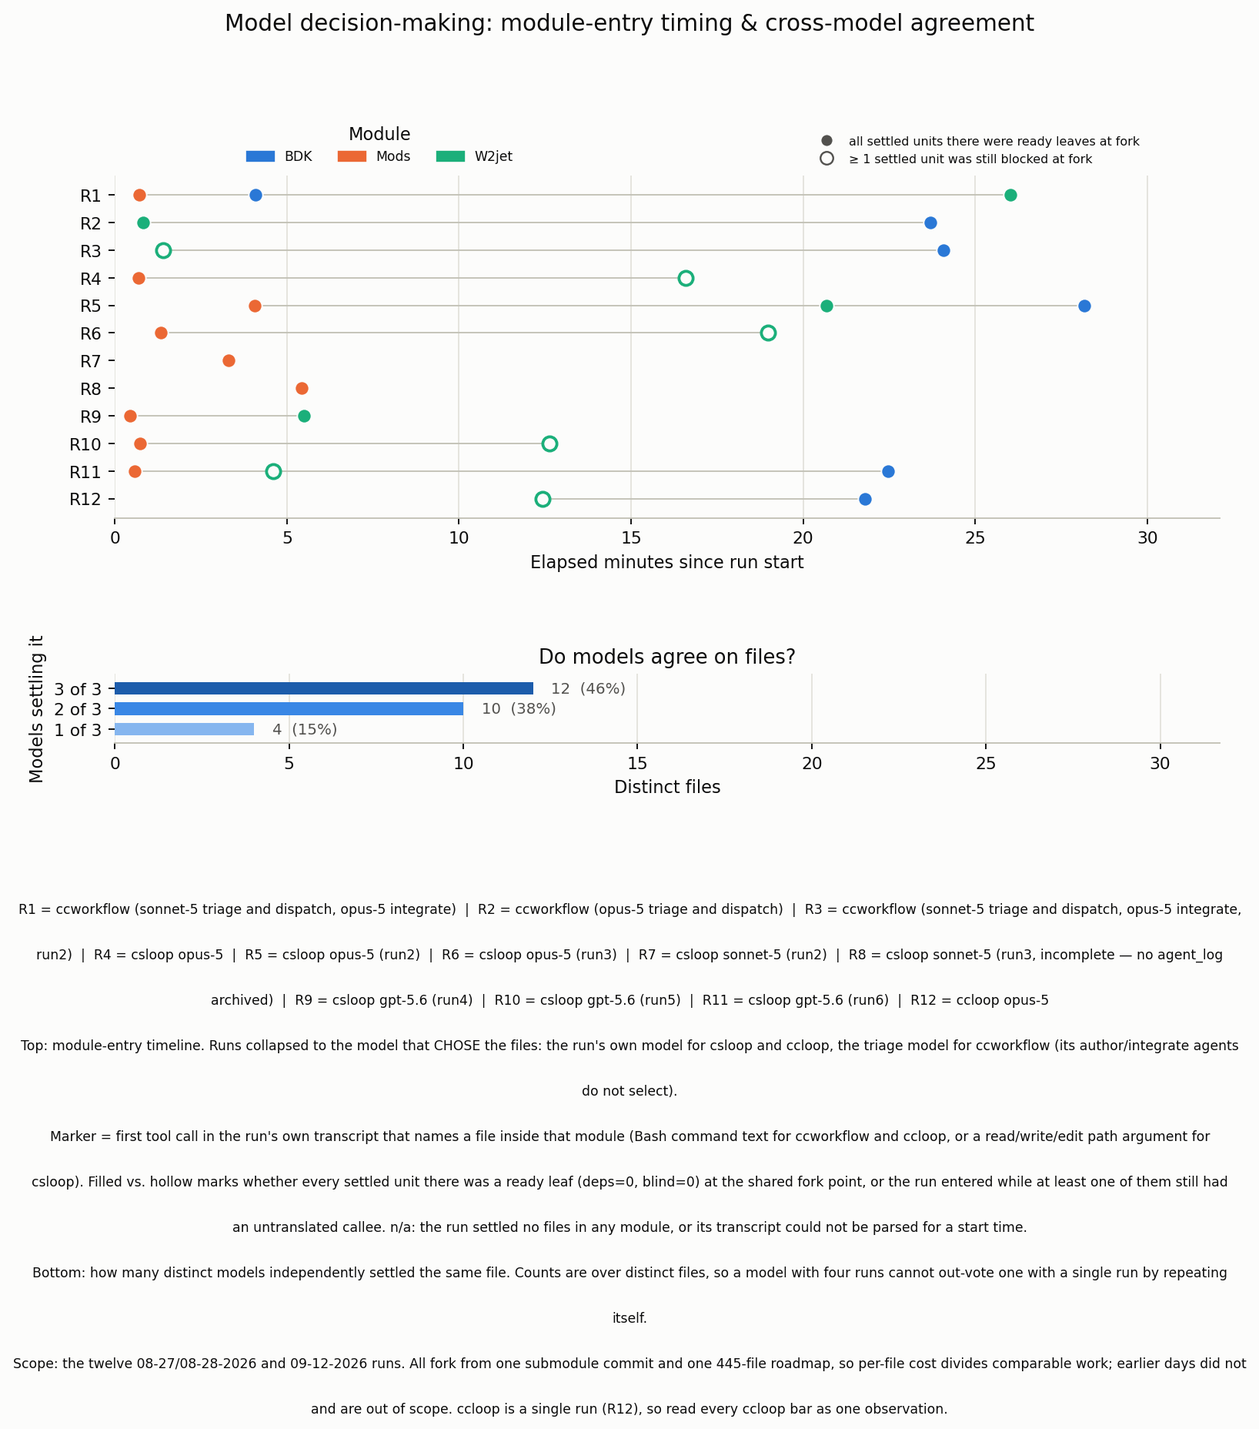
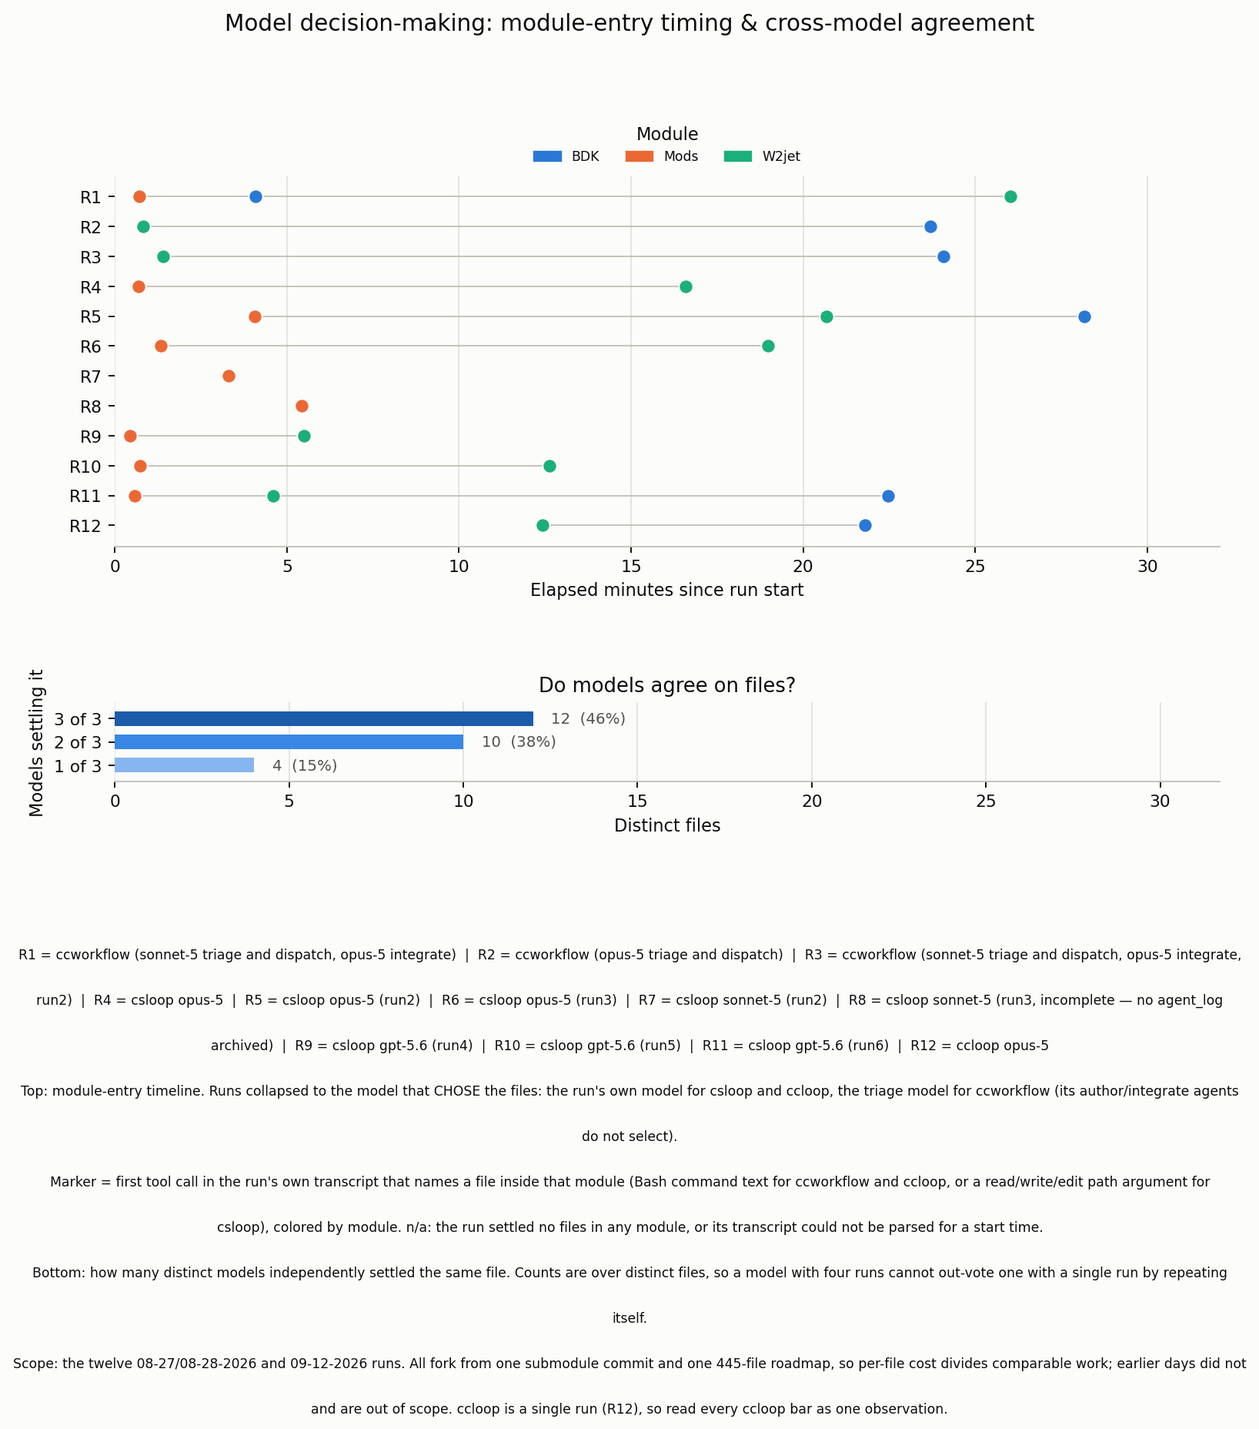
fix typo in archive name

diff --git a/evals/analysis/generate_graphs.py b/evals/analysis/generate_graphs.py
@@ -191,7 +191,6 @@ import matplotlib
 matplotlib.use("Agg")
 import matplotlib.pyplot as plt
 import matplotlib.patches as mpatches
-from matplotlib.lines import Line2D
 
 sys.path.insert(0, str(Path(__file__).resolve().parent))
 
@@ -324,18 +323,20 @@ plt.rcParams.update(
 # set, not deleted. R13 no longer exists as a code. Anything citing R12 or R13
 # from before 2026-09-13 is citing different runs.
 #
-# THE 09-12 RUN'S DIRECTORY NAME IS WRONG AND THE LABEL HERE DELIBERATELY
-# DISAGREES WITH IT. The archive is named `ccworkflow-loop-sonnet-5-run2` and
-# its archive_summary.json repeats that as `experiment_name`, but every Author
-# and Review agent in its transcripts reports `"model":"claude-opus-5"` (the
-# only sonnet-5 agent is the archival Metadata agent, which translates nothing
-# and decides nothing). The run is an opus-5 run mis-titled at archival time,
-# the way 08-11-2026/csloop-opus-5's archive_summary names a branch that does
-# not exist (see git_file_counts). The directory keeps its name, because that
-# name is also its archival git branch in software/mcfm; every label, config
-# and model attribution in this analysis follows the transcripts instead —
-# `decision_model_per_run` reads the model off the archive, so nothing but this
-# hand-written label ever depended on the folder.
+# THE 09-12 RUN WAS ARCHIVED UNDER THE WRONG NAME AND HAS SINCE BEEN RENAMED.
+# It was originally archived as `ccworkflow-loop-sonnet-5-run2`, but every
+# Author and Review agent in its transcripts reports `"model":"claude-opus-5"`
+# (the only sonnet-5 agent was the archival Metadata agent, which translates
+# nothing and decides nothing) -- the same kind of archival mistake as
+# 08-11-2026/csloop-opus-5's archive_summary naming a branch that does not
+# exist (see git_file_counts). On 2026-09-26 the directory, its
+# archive_summary.json, and its archival git branch in software/mcfm were all
+# renamed to `ccworkflow-loop-opus-5-run2` to match the transcripts, once it
+# was confirmed the run postdates the only Zenodo snapshot minted so far
+# (2026.09.04) and so cannot already be cited under the old name anywhere.
+# `decision_model_per_run` still reads the model off the archive rather than
+# trusting any folder name, so this rename is a correction to the record, not
+# something any label here depended on.
 #
 # The ccworkflow labels name the TRIAGE model, because triage is what picks the
 # files (see DECIDING_PHASE below). R1 and R3 also run opus-5 as their
@@ -359,7 +360,7 @@ RUNS = [
     ("08-27-2026", "codescribe-oaic-gpt56sol-run4", "R9", "csloop gpt-5.6 (run4)"),
     ("08-27-2026", "codescribe-oaic-gpt56sol-run5", "R10", "csloop gpt-5.6 (run5)"),
     ("08-28-2026", "codescribe-oaic-gpt56sol-run6", "R11", "csloop gpt-5.6 (run6)"),
-    ("09-12-2026", "ccworkflow-loop-sonnet-5-run2", "R12", "ccloop opus-5"),
+    ("09-12-2026", "ccworkflow-loop-opus-5-run2", "R12", "ccloop opus-5"),
 ]
 
 # Group boundaries, in the same order as RUNS above — used to build the
@@ -1784,11 +1785,12 @@ def load_module_timelines(translated_units, attrs):
 
 
 TIMELINE_MARKER_SIZE = 60
-"""Scatter `s` (points^2), constant across markers. Fan-in used to set marker
-area (sqrt-scaled) as a third encoded dimension alongside color (module) and
-fill/hollow (ready-leaf); dropped because three simultaneous encodings on one
-small scatter read as clutter rather than signal, and the fan-in values
-themselves are already discussed in the surrounding text."""
+"""Scatter `s` (points^2), constant across every marker. Fan-in (as marker
+area, sqrt-scaled) and ready-leaf status at fork (as fill/hollow) were both
+tried as further encodings alongside color (module) and dropped: stacking
+encodings on one small scatter read as clutter rather than signal, and both
+quantities are already discussed in the surrounding text (and, per-entry, in
+summary_tables.md)."""
 
 
 def draw_module_timeline_panel(ax, timelines, letter=None):
@@ -1811,13 +1813,8 @@ def draw_module_timeline_panel(ax, timelines, letter=None):
         ax.plot(xs, [y] * len(xs), color=AXIS, lw=0.8, zorder=1)
         for e in entries:
             color = MODULE_COLOR.get(e["module"], MUTED)
-            all_ready = e["n_settled"] > 0 and e["n_ready_leaf"] == e["n_settled"]
-            if all_ready:
-                ax.scatter([e["elapsed_min"]], [y], s=TIMELINE_MARKER_SIZE, color=color, zorder=3,
-                           edgecolor=SURFACE, linewidth=0.8)
-            else:
-                ax.scatter([e["elapsed_min"]], [y], s=TIMELINE_MARKER_SIZE, facecolor=SURFACE, zorder=3,
-                           edgecolor=color, linewidth=1.6)
+            ax.scatter([e["elapsed_min"]], [y], s=TIMELINE_MARKER_SIZE, color=color, zorder=3,
+                       edgecolor=SURFACE, linewidth=0.8)
 
     ax.set_yticks(range(len(KEYS)))
     ax.set_yticklabels([RUN_CODES[k] for k in reversed(KEYS)])
@@ -1829,25 +1826,13 @@ def draw_module_timeline_panel(ax, timelines, letter=None):
     # Every row has a marker within the first few minutes (Mods/W2jet both tend
     # to be entered early — see the figure), so the top-left corner a legend
     # would normally take is the densest part of the plot, not the emptiest.
-    # Both legends go outside the axes instead: the module key above (in the
-    # margin `tight_layout` already reserves for the axis title), the style
-    # key below the x-axis label, mirroring how the harness legend sits under
-    # the axis in the pgfplots panels elsewhere in this file.
+    # The legend goes outside the axes instead, in the margin `tight_layout`
+    # already reserves for the axis title -- module color is the only encoding
+    # left on this plot, so a single centered legend is enough.
     module_handles = [mpatches.Patch(color=MODULE_COLOR.get(m, MUTED), label=m) for m in modules_seen]
-    style_handles = [
-        Line2D([0], [0], marker="o", linestyle="none", markerfacecolor=INK_SECONDARY,
-               markeredgecolor=SURFACE, markersize=7,
-               label="all settled units there were ready leaves at fork"),
-        Line2D([0], [0], marker="o", linestyle="none", markerfacecolor=SURFACE,
-               markeredgecolor=INK_SECONDARY, markersize=7,
-               label="≥ 1 settled unit was still blocked at fork"),
-    ]
-    leg1 = ax.legend(handles=module_handles, title="Module", loc="lower center",
-                      bbox_to_anchor=(0.24, 1.0), ncol=len(module_handles),
-                      frameon=False, fontsize=LEGEND_SIZE)
-    ax.add_artist(leg1)
-    ax.legend(handles=style_handles, loc="lower center", bbox_to_anchor=(0.78, 1.0),
-              ncol=1, frameon=False, fontsize=LEGEND_SIZE * 0.92)
+    ax.legend(handles=module_handles, title="Module", loc="lower center",
+              bbox_to_anchor=(0.5, 1.0), ncol=len(module_handles),
+              frameon=False, fontsize=LEGEND_SIZE)
 
 
 def make_decision_figure(translated_units, decision_models, module_timelines):
@@ -1876,11 +1861,8 @@ def make_decision_figure(translated_units, decision_models, module_timelines):
         + _wrap_to_figure(
             "Marker = first tool call in the run's own transcript that names a file inside that module "
             "(Bash command text for ccworkflow and ccloop, or a read/write/edit path argument "
-            "for csloop). Filled vs. "
-            "hollow marks whether every settled unit there was a ready leaf (deps=0, blind=0) at the "
-            "shared fork point, or the run entered while at least one of them still had an untranslated "
-            "callee. n/a: the run settled no files in any module, or its transcript could not be parsed "
-            "for a start time.", 9.6)
+            "for csloop), colored by module. n/a: the run settled no files in any module, or its "
+            "transcript could not be parsed for a start time.", 9.6)
         + wrap_notes(9.6, [
             "Bottom: how many distinct models independently settled the same file. Counts are over "
             "distinct files, so a model with four runs cannot out-vote one with a single run by "
@@ -1889,11 +1871,11 @@ def make_decision_figure(translated_units, decision_models, module_timelines):
         ])
     )
 
-    # Manual axis placement rather than tight_layout: the timeline panel's two
-    # legends are separate artists placed via bbox_to_anchor above its own
-    # axes box (see draw_module_timeline_panel), which tight_layout cannot
-    # account for across a multi-axes figure -- it warns "not compatible" and
-    # produces a huge blank gap between the two panels instead.
+    # Manual axis placement rather than tight_layout: the timeline panel's
+    # legend is a separate artist placed via bbox_to_anchor above its own axes
+    # box (see draw_module_timeline_panel), which tight_layout cannot account
+    # for across a multi-axes figure -- it warns "not compatible" and produces
+    # a huge blank gap between the two panels instead.
     top_margin, gap = 0.12, 0.11
     bottom_margin = _caption_rect(len(caption))[1] + 0.03
     plot_h = (1 - top_margin) - bottom_margin
@@ -3653,9 +3635,7 @@ def _tikz_panel_timeline(module_timelines):
             body_lines.append(f"\\draw[evalAxis, line width=0.5pt] {coord_str};\n")
         for e in entries:
             color = TEX_MODULE_COLOR.get(e["module"], "evalInkStrong")
-            all_ready = e["n_settled"] > 0 and e["n_ready_leaf"] == e["n_settled"]
-            style = (f"fill={color}, draw=evalSurface, line width=0.6pt" if all_ready
-                     else f"fill=evalSurface, draw={color}, line width=1.1pt")
+            style = f"fill={color}, draw=evalSurface, line width=0.6pt"
             body_lines.append(
                 f"\\node[circle, {style}, minimum size={TIKZ_TIMELINE_MARKER_SIZE_PT:.2f}pt, inner sep=0pt] "
                 f"at (axis cs:{e['elapsed_min']:.3g},{y}) {{}};\n"
@@ -3667,8 +3647,11 @@ def _tikz_panel_timeline(module_timelines):
     # axis's own bounding box, which this document's style clips away, so the
     # only reliable way to put a legend "above" the data is to reserve real
     # data-coordinate space for it and never let a marker be plotted there.
+    # Module color is the only encoding left on this plot, so the legend is a
+    # single centered row rather than the two-column layout an earlier
+    # revision needed to also explain a filled/hollow marker style.
     legend_y0 = n + 0.3
-    legend_x = xmax * 0.72
+    legend_x = xmax * 0.42
     legend_lines = "".join(
         f"\\node[circle, fill={TEX_MODULE_COLOR.get(m, 'evalInkStrong')}, minimum size=7pt, inner sep=0pt] "
         f"at (axis cs:{legend_x:.3g},{legend_y0 + 0.7 * i:.3f}) {{}};\n"
@@ -3676,25 +3659,6 @@ def _tikz_panel_timeline(module_timelines):
         f"at (axis cs:{legend_x:.3g},{legend_y0 + 0.7 * i:.3f}) {{{_tex_escape(m)}}};\n"
         for i, m in enumerate(modules_seen)
     )
-
-    # Marker-style legend (filled vs. hollow), mirroring the PNG's top-right
-    # key -- drawn in evalInkStrong rather than a module color, since the
-    # filled/hollow distinction is orthogonal to which module a marker is.
-    # Placed in its own column, well clear of the module-color column above,
-    # so its longer strings never need to wrap.
-    style_x = xmax * 0.02
-    style_rows = [
-        ("fill=evalInkStrong, draw=evalSurface, line width=0.6pt", "ready leaf at fork"),
-        ("fill=evalSurface, draw=evalInkStrong, line width=1.1pt", "blocked unit at fork"),
-    ]
-    style_legend_lines = "".join(
-        f"\\node[circle, {style}, minimum size={TIKZ_TIMELINE_MARKER_SIZE_PT:.2f}pt, inner sep=0pt] "
-        f"at (axis cs:{style_x:.3g},{legend_y0 + 0.7 * i:.3f}) {{}};\n"
-        f"\\node[font=\\scriptsize, color=evalInk, anchor=west, xshift=8pt] "
-        f"at (axis cs:{style_x:.3g},{legend_y0 + 0.7 * i:.3f}) {{{_tex_escape(label)}}};\n"
-        for i, (style, label) in enumerate(style_rows)
-    )
-    legend_lines += style_legend_lines
 
     yticklabels = ",".join(_tex_escape(RUN_CODES[k]) for k in keys_order)
     ymax = n + 0.3 + 0.7 * len(modules_seen)
@@ -3724,11 +3688,11 @@ def write_tikz_decision_figure(module_timelines):
         TEX_DATA_BANNER,
         "%% Decision-making figure. Requires pgfplots + the groupplots library\n"
         "%% and the evalXxx colours, both set up in jss-submission.sty.\n"
-        "%% Module-entry timeline -- marker color is the module; filled = every\n"
-        "%% settled unit there was a ready leaf (deps=0, blind=0) at the shared\n"
-        "%% fork point, hollow = at least one was entered while something else\n"
-        "%% there still had an untranslated callee (see parse_decision_timeline.py\n"
-        "%% for what counts as \"settled\" here) -- see the in-plot legend.\n"
+        "%% Module-entry timeline -- one row per run, a marker for each module it\n"
+        "%% went on to settle in, placed at the elapsed time of that run's first\n"
+        "%% tool call naming a file in that module. Marker color is the module\n"
+        "%% (see the in-plot legend); ready-leaf/blocked status at fork is not\n"
+        "%% encoded here (see summary_tables.md for that breakdown per entry).\n"
         "%% Cross-model agreement on the same files (PNG's second panel) is\n"
         "%% reported in prose in sec:evaldecision instead of as a panel here.\n",
         "\\begin{tikzpicture}\n",

diff --git a/evals/analysis/tex/fig_decision.tex b/evals/analysis/tex/fig_decision.tex
@@ -14,11 +14,11 @@
 %% are deliberately out of scope.
 %% Decision-making figure. Requires pgfplots + the groupplots library
 %% and the evalXxx colours, both set up in jss-submission.sty.
-%% Module-entry timeline -- marker color is the module; filled = every
-%% settled unit there was a ready leaf (deps=0, blind=0) at the shared
-%% fork point, hollow = at least one was entered while something else
-%% there still had an untranslated callee (see parse_decision_timeline.py
-%% for what counts as "settled" here) -- see the in-plot legend.
+%% Module-entry timeline -- one row per run, a marker for each module it
+%% went on to settle in, placed at the elapsed time of that run's first
+%% tool call naming a file in that module. Marker color is the module
+%% (see the in-plot legend); ready-leaf/blocked status at fork is not
+%% encoded here (see summary_tables.md for that breakdown per entry).
 %% Cross-model agreement on the same files (PNG's second panel) is
 %% reported in prose in sec:evaldecision instead of as a panel here.
 \begin{tikzpicture}
@@ -34,15 +34,15 @@
   xlabel={Elapsed minutes since run start},
 ]
 \draw[evalAxis, line width=0.5pt] (axis cs:12.4,0) -- (axis cs:21.8,0);
-\node[circle, fill=evalSurface, draw=evalAqua, line width=1.1pt, minimum size=8.50pt, inner sep=0pt] at (axis cs:12.4,0) {};
+\node[circle, fill=evalAqua, draw=evalSurface, line width=0.6pt, minimum size=8.50pt, inner sep=0pt] at (axis cs:12.4,0) {};
 \node[circle, fill=evalBlue, draw=evalSurface, line width=0.6pt, minimum size=8.50pt, inner sep=0pt] at (axis cs:21.8,0) {};
 \draw[evalAxis, line width=0.5pt] (axis cs:0.573,1) -- (axis cs:4.61,1) -- (axis cs:22.5,1);
 \node[circle, fill=evalOrange, draw=evalSurface, line width=0.6pt, minimum size=8.50pt, inner sep=0pt] at (axis cs:0.573,1) {};
-\node[circle, fill=evalSurface, draw=evalAqua, line width=1.1pt, minimum size=8.50pt, inner sep=0pt] at (axis cs:4.61,1) {};
+\node[circle, fill=evalAqua, draw=evalSurface, line width=0.6pt, minimum size=8.50pt, inner sep=0pt] at (axis cs:4.61,1) {};
 \node[circle, fill=evalBlue, draw=evalSurface, line width=0.6pt, minimum size=8.50pt, inner sep=0pt] at (axis cs:22.5,1) {};
 \draw[evalAxis, line width=0.5pt] (axis cs:0.724,2) -- (axis cs:12.6,2);
 \node[circle, fill=evalOrange, draw=evalSurface, line width=0.6pt, minimum size=8.50pt, inner sep=0pt] at (axis cs:0.724,2) {};
-\node[circle, fill=evalSurface, draw=evalAqua, line width=1.1pt, minimum size=8.50pt, inner sep=0pt] at (axis cs:12.6,2) {};
+\node[circle, fill=evalAqua, draw=evalSurface, line width=0.6pt, minimum size=8.50pt, inner sep=0pt] at (axis cs:12.6,2) {};
 \draw[evalAxis, line width=0.5pt] (axis cs:0.433,3) -- (axis cs:5.49,3);
 \node[circle, fill=evalOrange, draw=evalSurface, line width=0.6pt, minimum size=8.50pt, inner sep=0pt] at (axis cs:0.433,3) {};
 \node[circle, fill=evalAqua, draw=evalSurface, line width=0.6pt, minimum size=8.50pt, inner sep=0pt] at (axis cs:5.49,3) {};
@@ -50,16 +50,16 @@
 \node[circle, fill=evalOrange, draw=evalSurface, line width=0.6pt, minimum size=8.50pt, inner sep=0pt] at (axis cs:3.3,5) {};
 \draw[evalAxis, line width=0.5pt] (axis cs:1.34,6) -- (axis cs:19,6);
 \node[circle, fill=evalOrange, draw=evalSurface, line width=0.6pt, minimum size=8.50pt, inner sep=0pt] at (axis cs:1.34,6) {};
-\node[circle, fill=evalSurface, draw=evalAqua, line width=1.1pt, minimum size=8.50pt, inner sep=0pt] at (axis cs:19,6) {};
+\node[circle, fill=evalAqua, draw=evalSurface, line width=0.6pt, minimum size=8.50pt, inner sep=0pt] at (axis cs:19,6) {};
 \draw[evalAxis, line width=0.5pt] (axis cs:4.07,7) -- (axis cs:20.7,7) -- (axis cs:28.2,7);
 \node[circle, fill=evalOrange, draw=evalSurface, line width=0.6pt, minimum size=8.50pt, inner sep=0pt] at (axis cs:4.07,7) {};
 \node[circle, fill=evalAqua, draw=evalSurface, line width=0.6pt, minimum size=8.50pt, inner sep=0pt] at (axis cs:20.7,7) {};
 \node[circle, fill=evalBlue, draw=evalSurface, line width=0.6pt, minimum size=8.50pt, inner sep=0pt] at (axis cs:28.2,7) {};
 \draw[evalAxis, line width=0.5pt] (axis cs:0.683,8) -- (axis cs:16.6,8);
 \node[circle, fill=evalOrange, draw=evalSurface, line width=0.6pt, minimum size=8.50pt, inner sep=0pt] at (axis cs:0.683,8) {};
-\node[circle, fill=evalSurface, draw=evalAqua, line width=1.1pt, minimum size=8.50pt, inner sep=0pt] at (axis cs:16.6,8) {};
+\node[circle, fill=evalAqua, draw=evalSurface, line width=0.6pt, minimum size=8.50pt, inner sep=0pt] at (axis cs:16.6,8) {};
 \draw[evalAxis, line width=0.5pt] (axis cs:1.41,9) -- (axis cs:24.1,9);
-\node[circle, fill=evalSurface, draw=evalAqua, line width=1.1pt, minimum size=8.50pt, inner sep=0pt] at (axis cs:1.41,9) {};
+\node[circle, fill=evalAqua, draw=evalSurface, line width=0.6pt, minimum size=8.50pt, inner sep=0pt] at (axis cs:1.41,9) {};
 \node[circle, fill=evalBlue, draw=evalSurface, line width=0.6pt, minimum size=8.50pt, inner sep=0pt] at (axis cs:24.1,9) {};
 \draw[evalAxis, line width=0.5pt] (axis cs:0.811,10) -- (axis cs:23.7,10);
 \node[circle, fill=evalAqua, draw=evalSurface, line width=0.6pt, minimum size=8.50pt, inner sep=0pt] at (axis cs:0.811,10) {};
@@ -68,15 +68,11 @@
 \node[circle, fill=evalOrange, draw=evalSurface, line width=0.6pt, minimum size=8.50pt, inner sep=0pt] at (axis cs:0.714,11) {};
 \node[circle, fill=evalBlue, draw=evalSurface, line width=0.6pt, minimum size=8.50pt, inner sep=0pt] at (axis cs:4.08,11) {};
 \node[circle, fill=evalAqua, draw=evalSurface, line width=0.6pt, minimum size=8.50pt, inner sep=0pt] at (axis cs:26,11) {};
-\node[circle, fill=evalBlue, minimum size=7pt, inner sep=0pt] at (axis cs:23.1,12.300) {};
-\node[font=\scriptsize, color=evalInk, anchor=west, xshift=6pt] at (axis cs:23.1,12.300) {BDK};
-\node[circle, fill=evalOrange, minimum size=7pt, inner sep=0pt] at (axis cs:23.1,13.000) {};
-\node[font=\scriptsize, color=evalInk, anchor=west, xshift=6pt] at (axis cs:23.1,13.000) {Mods};
-\node[circle, fill=evalAqua, minimum size=7pt, inner sep=0pt] at (axis cs:23.1,13.700) {};
-\node[font=\scriptsize, color=evalInk, anchor=west, xshift=6pt] at (axis cs:23.1,13.700) {W2jet};
-\node[circle, fill=evalInkStrong, draw=evalSurface, line width=0.6pt, minimum size=8.50pt, inner sep=0pt] at (axis cs:0.642,12.300) {};
-\node[font=\scriptsize, color=evalInk, anchor=west, xshift=8pt] at (axis cs:0.642,12.300) {ready leaf at fork};
-\node[circle, fill=evalSurface, draw=evalInkStrong, line width=1.1pt, minimum size=8.50pt, inner sep=0pt] at (axis cs:0.642,13.000) {};
-\node[font=\scriptsize, color=evalInk, anchor=west, xshift=8pt] at (axis cs:0.642,13.000) {blocked unit at fork};
+\node[circle, fill=evalBlue, minimum size=7pt, inner sep=0pt] at (axis cs:13.5,12.300) {};
+\node[font=\scriptsize, color=evalInk, anchor=west, xshift=6pt] at (axis cs:13.5,12.300) {BDK};
+\node[circle, fill=evalOrange, minimum size=7pt, inner sep=0pt] at (axis cs:13.5,13.000) {};
+\node[font=\scriptsize, color=evalInk, anchor=west, xshift=6pt] at (axis cs:13.5,13.000) {Mods};
+\node[circle, fill=evalAqua, minimum size=7pt, inner sep=0pt] at (axis cs:13.5,13.700) {};
+\node[font=\scriptsize, color=evalInk, anchor=west, xshift=6pt] at (axis cs:13.5,13.700) {W2jet};
 \end{groupplot}
 \end{tikzpicture}

diff --git a/evals/analysis/harness.py b/evals/analysis/harness.py
@@ -64,10 +64,12 @@ HARNESSES = (CCWORKFLOW, CCLOOP, CSLOOP)
 # this is checked FIRST, before any other rule. `ccloop-*` is accepted too, for
 # runs archived under the shorter name.
 #
-# Directory names carry no reliable MODEL either: 09-12-2026's run is named
-# `ccworkflow-loop-sonnet-5-run2` but every author and review agent in it ran
-# opus-5. That is why nothing here parses a model out of a name, and why
-# generate_graphs labels that run from its transcripts instead.
+# Directory names carry no reliable MODEL either: 09-12-2026's run was
+# archived as `ccworkflow-loop-sonnet-5-run2` even though every author and
+# review agent in it ran opus-5 (fixed 2026-09-26 -- see generate_graphs.py's
+# RUNS comment). That is why nothing here parses a model out of a name, and
+# why generate_graphs labels every run from its transcripts instead, even now
+# that this particular directory name agrees with them.
 _CCLOOP_PREFIXES = ("ccworkflow-loop-", "ccloop-")
 
 

diff --git a/evals/analysis/tex/tab_coverage_map.tex b/evals/analysis/tex/tab_coverage_map.tex
@@ -28,6 +28,6 @@
     R9 & csloop gpt-5.6 (run4) & \texttt{experiments/08-27-2026/codescribe-oaic-gpt56sol-run4} \\
     R10 & csloop gpt-5.6 (run5) & \texttt{experiments/08-27-2026/codescribe-oaic-gpt56sol-run5} \\
     R11 & csloop gpt-5.6 (run6) & \texttt{experiments/08-28-2026/codescribe-oaic-gpt56sol-run6} \\
-    R12 & ccloop opus-5 & \texttt{experiments/09-12-2026/ccworkflow-loop-sonnet-5-run2} \\
+    R12 & ccloop opus-5 & \texttt{experiments/09-12-2026/ccworkflow-loop-opus-5-run2} \\
   \bottomrule
 \end{tabular}

diff --git a/evals/analysis/summary_tables.md b/evals/analysis/summary_tables.md
@@ -33,7 +33,7 @@ Runs grouped sequentially by harness and decision model — all ccworkflow runs,
 | R9 | csloop gpt-5.6 | gpt-5.6 | reasoning_effort=high | `evals/experiments/08-27-2026/codescribe-oaic-gpt56sol-run4` |
 | R10 | csloop gpt-5.6 | gpt-5.6 | reasoning_effort=high | `evals/experiments/08-27-2026/codescribe-oaic-gpt56sol-run5` |
 | R11 | csloop gpt-5.6 | gpt-5.6 | reasoning_effort=high | `evals/experiments/08-28-2026/codescribe-oaic-gpt56sol-run6` |
-| R12 | ccloop | opus-5 | effort=high | `evals/experiments/09-12-2026/ccworkflow-loop-sonnet-5-run2` |
+| R12 | ccloop | opus-5 | effort=high | `evals/experiments/09-12-2026/ccworkflow-loop-opus-5-run2` |
 
 ## Run comparison: cost, cache, wall time, tool calls & files settled
 
